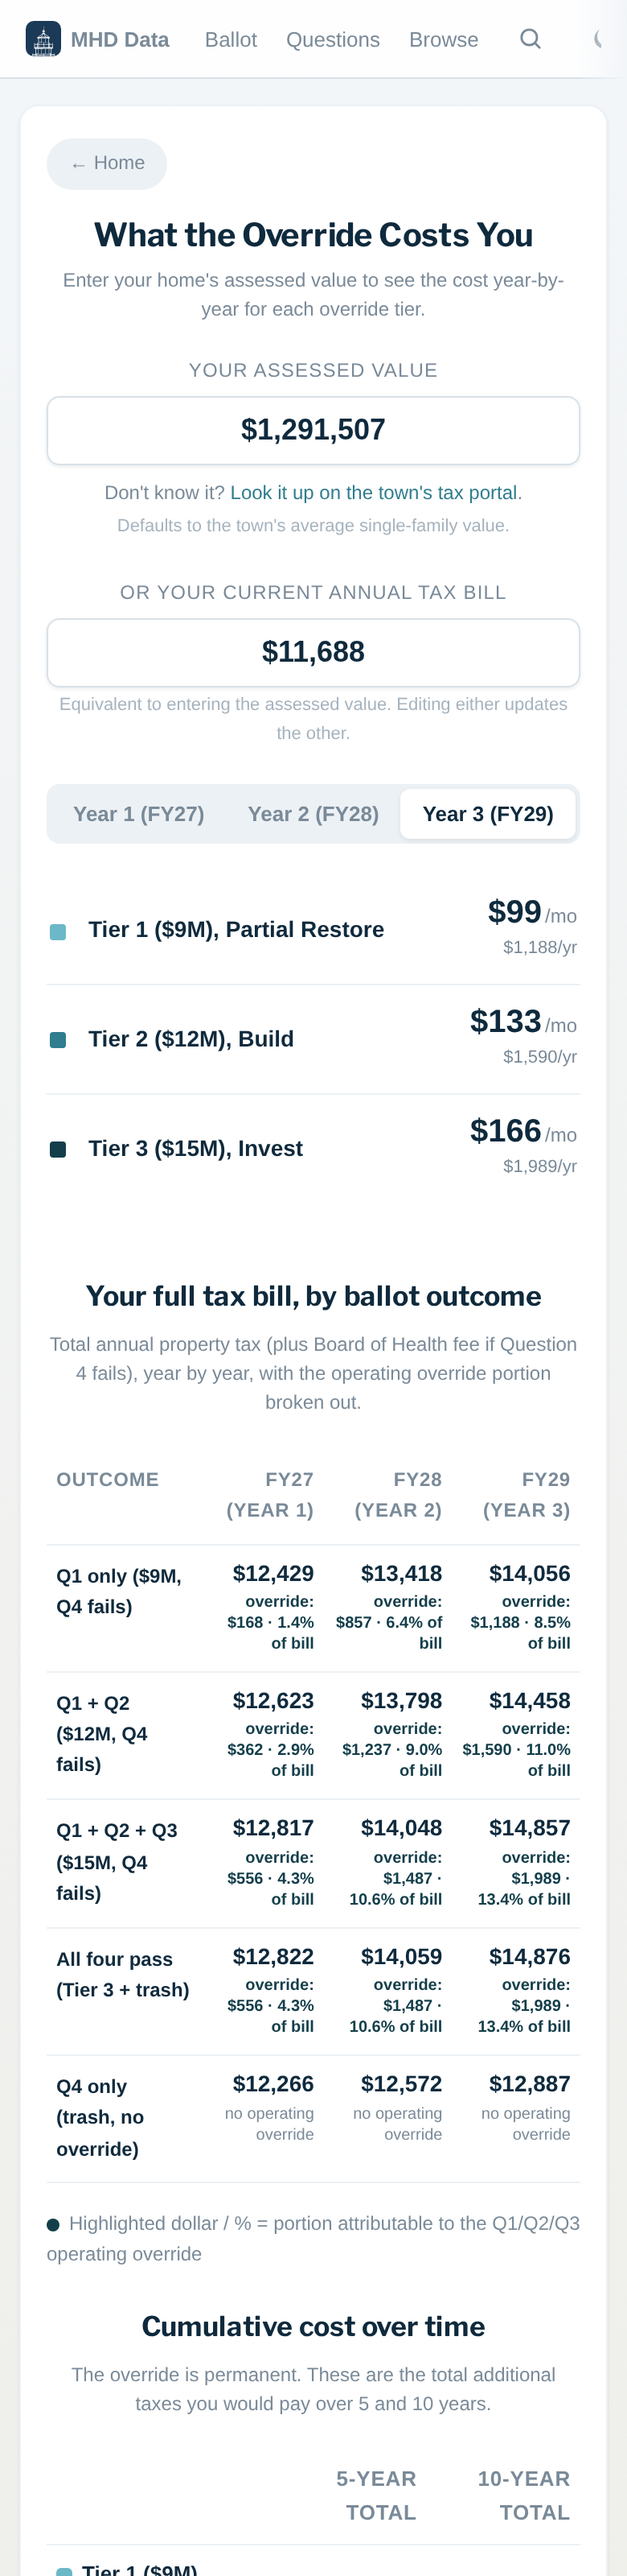
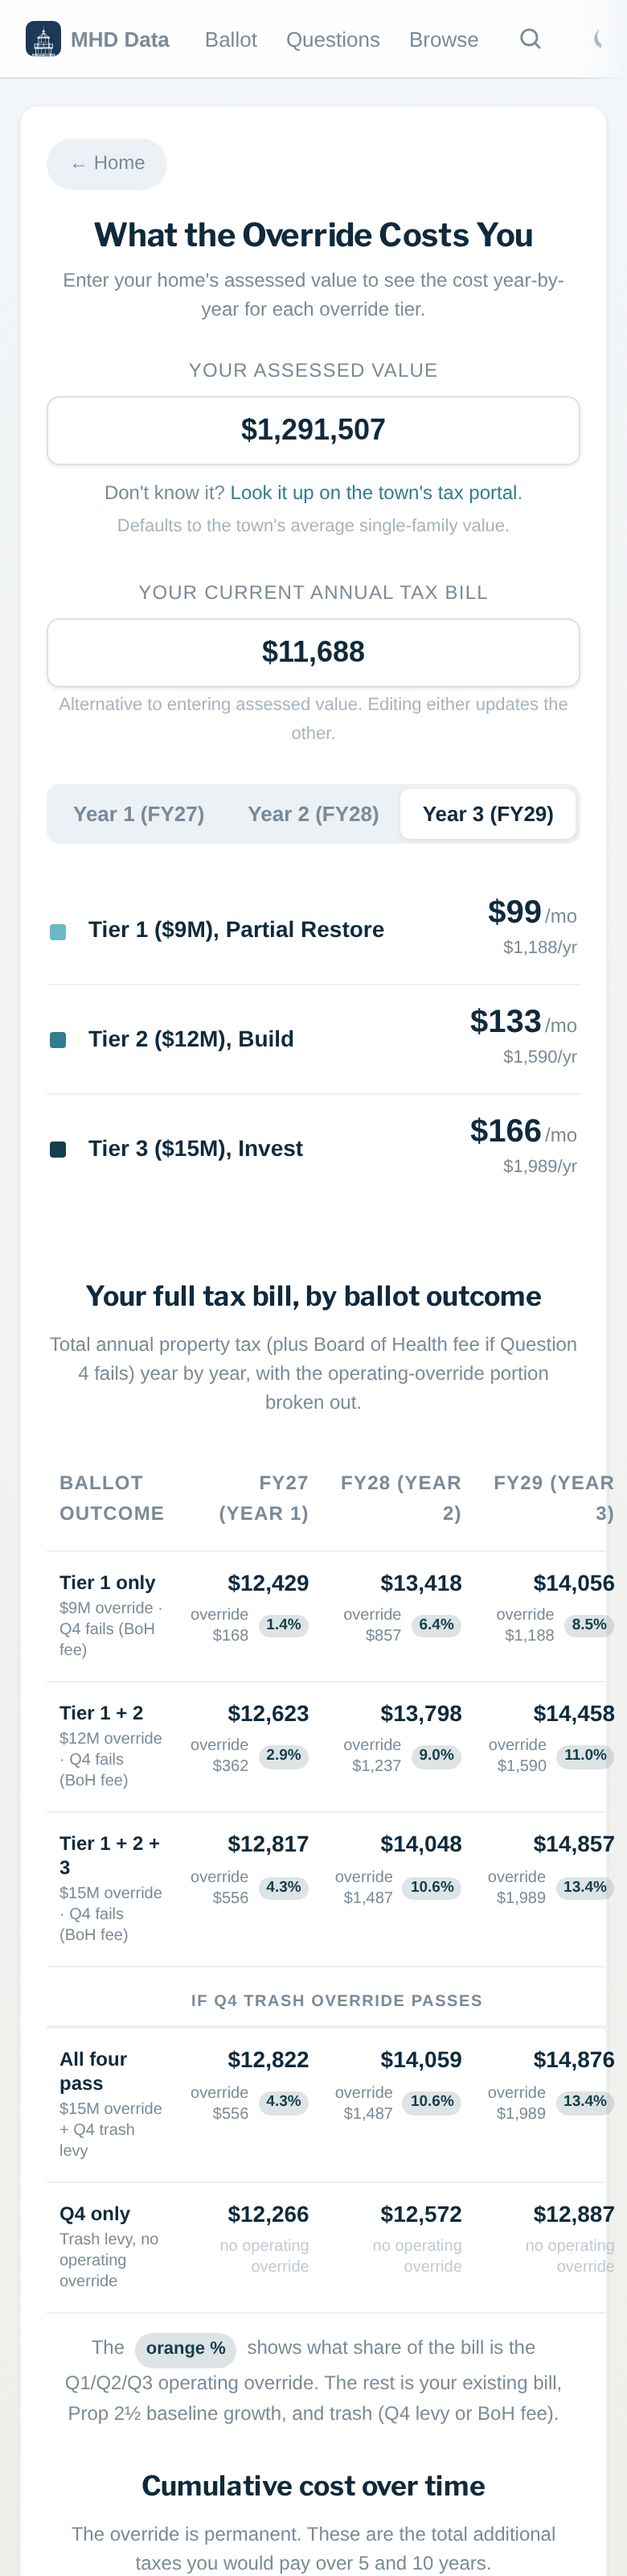
Override calculator polish: cleaner row labels, override pill, group divider
Visual + UX cleanup of the per-scenario tax bill table:

1. Row labels split into primary + secondary text. "Q1 only ($9M, Q4 fails)"
   becomes "Tier 1 only" with smaller secondary line "$9M override · Q4
   fails (BoH fee)". Less wordy, more scannable, eliminates the three-row
   repetition of "Q4 fails".

2. Override % rendered as a colored pill badge instead of inline text.
   Anchors the eye to the override portion (which is the point of the
   table) and gives the numbers visual rhythm cell-to-cell.

3. Group divider between the three "Q4 fails" rows and the two "Q4 passes"
   rows, with a header label "IF Q4 TRASH OVERRIDE PASSES". Makes the
   structural distinction visible at a glance.

4. Cleaner input section. Removed the awkward "OR" prefix on the second
   input label — the hint text now explains the alternative-input behavior.

5. Tighter legend wording with the orange pill shown inline for direct
   visual reference.

6. Larger cell-total typography (17px desktop / 14px mobile, up from
   16/14) and tighter mobile padding so the table still fits cleanly at
   390px viewport.

Numbers unchanged — only presentation. Tests: 55 passed, 0 failed.
Input syncing verified with proof/calc-input-test.mjs (AV ↔ bill both
directions, scenario table updates correctly for $5K bill case).

Proof: proof/calc-new-section.png (desktop), proof/calc-table-mobile.png
(390px mobile).

diff --git a/charts/override_calculator.html b/charts/override_calculator.html
@@ -93,58 +93,91 @@ title: "What the Override Costs You"
 .income-note-row td a { color: var(--link); }
 
 .scenario-table {
-  width: 100%; max-width: 760px; margin: 0 auto 16px;
+  width: 100%; max-width: 780px; margin: 0 auto 12px;
   border-collapse: collapse; font-variant-numeric: tabular-nums;
 }
 .scenario-table th, .scenario-table td {
-  padding: 12px 10px; font-size: 13px;
+  padding: 14px 12px; font-size: 13px;
   border-bottom: 1px solid var(--divider);
   vertical-align: top;
 }
 .scenario-table th {
-  font-size: 11px; color: var(--text-subtle); text-transform: uppercase;
-  letter-spacing: 0.4px; font-weight: 600; text-align: right;
+  font-size: 10px; color: var(--text-subtle); text-transform: uppercase;
+  letter-spacing: 0.6px; font-weight: 600; text-align: right;
+  padding-top: 8px; padding-bottom: 8px;
 }
 .scenario-table th:first-child { text-align: left; }
-.scenario-table td:first-child {
-  text-align: left; font-weight: 600; font-size: 13px;
-}
+.scenario-table td:first-child { text-align: left; }
 .scenario-table td:not(:first-child) { text-align: right; }
+
+.scenario-label-primary {
+  display: block; font-weight: 700; font-size: 14px;
+  color: var(--text); line-height: 1.2;
+}
+.scenario-label-secondary {
+  display: block; font-size: 11px; color: var(--text-subtle);
+  font-weight: 400; margin-top: 3px; line-height: 1.3;
+}
+
 .scenario-table .cell-total {
-  font-size: 16px; font-weight: 700; line-height: 1.1;
+  font-size: 17px; font-weight: 700; line-height: 1.1;
+  color: var(--text);
 }
 .scenario-table .cell-detail {
   font-size: 11px; color: var(--text-subtle);
-  margin-top: 4px; line-height: 1.3;
+  margin-top: 6px; line-height: 1.3;
+  display: flex; align-items: center; justify-content: flex-end; gap: 6px;
 }
-.scenario-table .cell-override-strong {
+.scenario-table .cell-override-amt {
+  color: var(--text-subtle);
+}
+.scenario-table .override-pill {
+  background: color-mix(in srgb, var(--series-tier-3, #c45a2c) 14%, transparent);
   color: var(--series-tier-3, #c45a2c);
-  font-weight: 600;
+  padding: 2px 7px; border-radius: 999px;
+  font-weight: 700; font-size: 11px;
+  white-space: nowrap;
 }
-.scenario-table tr.scenario-baseline td,
-.scenario-table tr.scenario-q4 td {
-  background: color-mix(in srgb, var(--surface) 50%, transparent);
+.scenario-table .cell-detail-none {
+  font-size: 11px; color: var(--text-faint, var(--text-subtle));
+  margin-top: 6px; line-height: 1.3; opacity: 0.7; text-align: right;
 }
+
+.scenario-table tr.scenario-divider td {
+  border-bottom: 2px solid var(--divider);
+  padding: 0; height: 0;
+}
+.scenario-table tr.scenario-divider td > div {
+  text-align: center; font-size: 10px;
+  color: var(--text-subtle); text-transform: uppercase;
+  letter-spacing: 0.8px; font-weight: 600;
+  padding: 14px 0 6px;
+}
+
 .scenario-legend {
-  max-width: 760px; margin: 0 auto 20px;
+  max-width: 780px; margin: 0 auto 24px;
   font-size: 12px; color: var(--text-subtle);
-  display: flex; gap: 18px; flex-wrap: wrap; justify-content: center;
+  text-align: center;
 }
-.scenario-legend .swatch-dot {
-  display: inline-block; width: 8px; height: 8px;
-  border-radius: 50%; margin-right: 6px;
-  background: var(--series-tier-3, #c45a2c);
-  vertical-align: middle;
+.scenario-legend .override-pill {
+  display: inline-block;
+  background: color-mix(in srgb, var(--series-tier-3, #c45a2c) 14%, transparent);
+  color: var(--series-tier-3, #c45a2c);
+  padding: 2px 7px; border-radius: 999px;
+  font-weight: 700; font-size: 11px;
+  margin: 0 3px;
 }
+
 @media (max-width: 600px) {
   .scenario-table th, .scenario-table td {
-    padding: 10px 6px; font-size: 12px;
+    padding: 12px 8px; font-size: 12px;
   }
-  .scenario-table td:first-child {
-    font-size: 12px;
-  }
+  .scenario-label-primary { font-size: 12px; }
+  .scenario-label-secondary { font-size: 10px; }
   .scenario-table .cell-total { font-size: 14px; }
-  .scenario-table .cell-detail { font-size: 10px; }
+  .scenario-table .cell-detail,
+  .scenario-table .cell-detail-none { font-size: 10px; }
+  .scenario-table .override-pill { font-size: 9.5px; padding: 1px 5px; }
 }
 </style>
 <h1 class="h-center">What the Override Costs You</h1>
@@ -158,9 +191,9 @@ title: "What the Override Costs You"
   </div>
 
   <div class="calc-input">
-    <label for="current-bill">Or your current annual tax bill</label>
+    <label for="current-bill">Your current annual tax bill</label>
     <input id="current-bill" type="text" inputmode="numeric" value="$11,688" autocomplete="off">
-    <span class="hint-default">Equivalent to entering the assessed value. Editing either updates the other.</span>
+    <span class="hint-default">Alternative to entering assessed value. Editing either updates the other.</span>
   </div>
 
   <div class="tabs">
@@ -174,10 +207,10 @@ title: "What the Override Costs You"
   <div class="year-panel active" id="year-3"></div>
 
   <h2 class="h-center" style="margin-top: 48px;">Your full tax bill, by ballot outcome</h2>
-  <p class="subtitle h-center">Total annual property tax (plus Board of Health fee if Question 4 fails), year by year, with the operating override portion broken out.</p>
+  <p class="subtitle h-center">Total annual property tax (plus Board of Health fee if Question 4 fails) year by year, with the operating-override portion broken out.</p>
   <div id="scenario-panel"></div>
   <div class="scenario-legend">
-    <span><span class="swatch-dot"></span>Highlighted dollar / % = portion attributable to the Q1/Q2/Q3 operating override</span>
+    The <span class="override-pill">orange %</span> shows what share of the bill is the Q1/Q2/Q3 operating override. The rest is your existing bill, Prop 2&frac12; baseline growth, and trash (Q4 levy or BoH fee).
   </div>
 
   <h2 class="h-center">Cumulative cost over time</h2>
@@ -374,11 +407,11 @@ function baselineForYear(currentBill, year) {
 }
 
 const SCENARIOS = [
-  { id: 'q1',     label: 'Q1 only ($9M, Q4 fails)',          tier: 1, q4: false },
-  { id: 'q1q2',   label: 'Q1 + Q2 ($12M, Q4 fails)',         tier: 2, q4: false },
-  { id: 'q1q2q3', label: 'Q1 + Q2 + Q3 ($15M, Q4 fails)',    tier: 3, q4: false },
-  { id: 'all',    label: 'All four pass (Tier 3 + trash)',   tier: 3, q4: true },
-  { id: 'q4',     label: 'Q4 only (trash, no override)',     tier: 0, q4: true },
+  { id: 'q1',     primary: 'Tier 1 only',     secondary: '$9M override · Q4 fails (BoH fee)',  tier: 1, q4: false },
+  { id: 'q1q2',   primary: 'Tier 1 + 2',      secondary: '$12M override · Q4 fails (BoH fee)', tier: 2, q4: false },
+  { id: 'q1q2q3', primary: 'Tier 1 + 2 + 3',  secondary: '$15M override · Q4 fails (BoH fee)', tier: 3, q4: false },
+  { id: 'all',    primary: 'All four pass',   secondary: '$15M override + Q4 trash levy',      tier: 3, q4: true },
+  { id: 'q4',     primary: 'Q4 only',         secondary: 'Trash levy, no operating override',  tier: 0, q4: true },
 ];
 
 function calculateScenario(av, currentBill, year, scenario) {
@@ -394,29 +427,42 @@ function calculateScenario(av, currentBill, year, scenario) {
 }
 
 function renderScenarioCell(result) {
-  let detail;
   if (result.overrideAmount > 0) {
-    detail = '<div class="cell-detail cell-override-strong">override: ' +
-             money(result.overrideAmount) + ' &middot; ' + pct(result.overridePct) +
-             ' of bill</div>';
-  } else {
-    detail = '<div class="cell-detail">no operating override</div>';
+    return '<div class="cell-total">' + money(result.total) + '</div>' +
+           '<div class="cell-detail">' +
+             '<span class="cell-override-amt">override ' + money(result.overrideAmount) + '</span>' +
+             '<span class="override-pill">' + pct(result.overridePct) + '</span>' +
+           '</div>';
   }
-  return '<div class="cell-total">' + money(result.total) + '</div>' + detail;
+  return '<div class="cell-total">' + money(result.total) + '</div>' +
+         '<div class="cell-detail-none">no operating override</div>';
+}
+
+function renderScenarioRow(s, av, currentBill) {
+  const cells = [1, 2, 3].map(function(year) {
+    const result = calculateScenario(av, currentBill, year, s);
+    return '<td>' + renderScenarioCell(result) + '</td>';
+  }).join('');
+  const label = '<td>' +
+    '<span class="scenario-label-primary">' + s.primary + '</span>' +
+    '<span class="scenario-label-secondary">' + s.secondary + '</span>' +
+  '</td>';
+  return '<tr class="scenario-' + s.id + '">' + label + cells + '</tr>';
 }
 
 function renderScenarioTable(av, currentBill) {
-  const header = '<tr><th>Outcome</th><th>FY27 (Year 1)</th>' +
+  const header = '<tr><th>Ballot outcome</th><th>FY27 (Year 1)</th>' +
                  '<th>FY28 (Year 2)</th><th>FY29 (Year 3)</th></tr>';
-  const rows = SCENARIOS.map(function(s) {
-    const cells = [1, 2, 3].map(function(year) {
-      const result = calculateScenario(av, currentBill, year, s);
-      return '<td>' + renderScenarioCell(result) + '</td>';
-    }).join('');
-    return '<tr class="scenario-' + s.id + '"><td>' + s.label + '</td>' + cells + '</tr>';
-  }).join('');
+  // Group Q4-fails scenarios (first 3) and Q4-passes scenarios (last 2)
+  // with a visual divider between them.
+  const q4FailsRows = SCENARIOS.filter(function(s) { return !s.q4; })
+    .map(function(s) { return renderScenarioRow(s, av, currentBill); }).join('');
+  const q4PassesRows = SCENARIOS.filter(function(s) { return s.q4; })
+    .map(function(s) { return renderScenarioRow(s, av, currentBill); }).join('');
+  const divider = '<tr class="scenario-divider"><td colspan="4">' +
+                  '<div>If Q4 trash override passes</div></td></tr>';
   return '<table class="scenario-table"><thead>' + header + '</thead>' +
-         '<tbody>' + rows + '</tbody></table>';
+         '<tbody>' + q4FailsRows + divider + q4PassesRows + '</tbody></table>';
 }
 
 let syncing = false;
